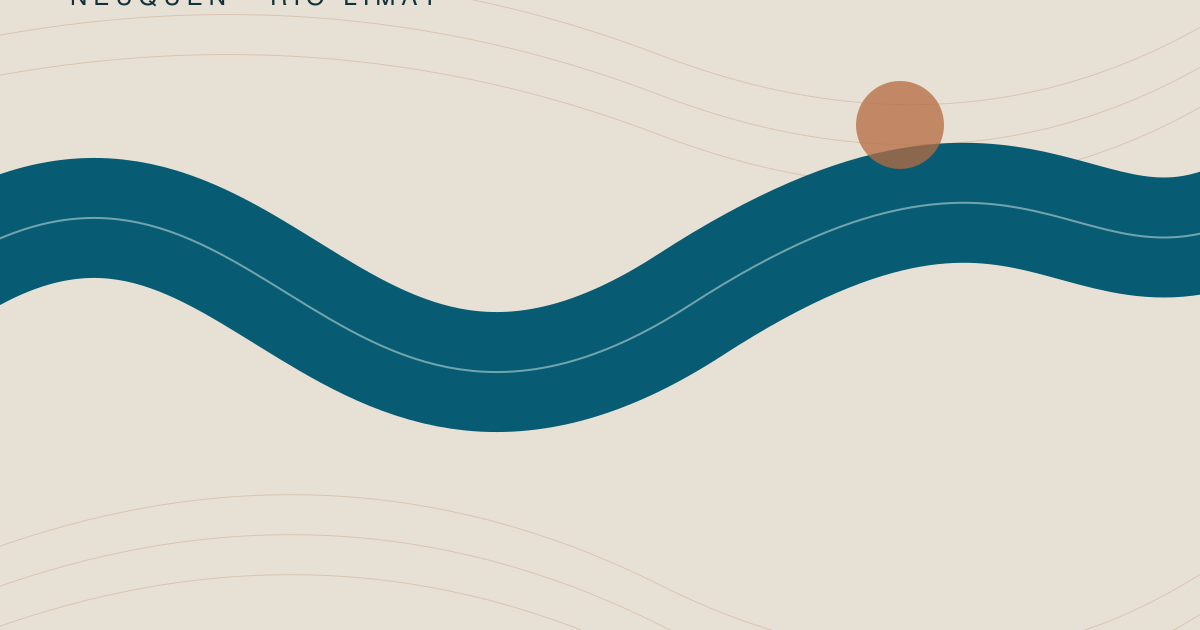
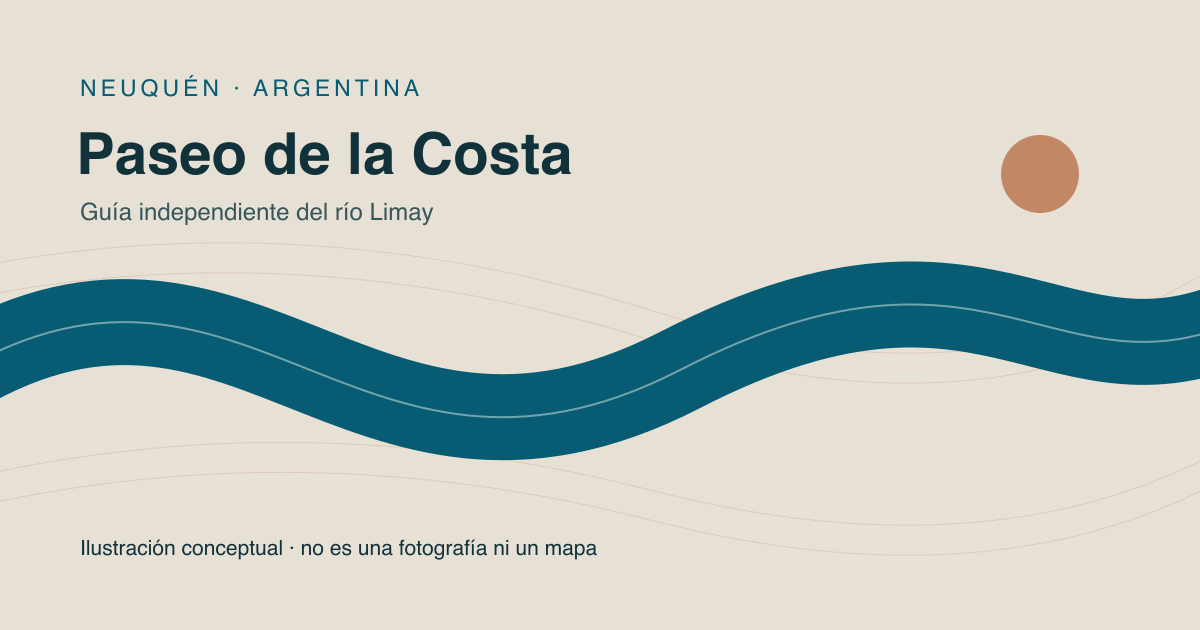
Improve bilingual visitor guide, SEO and existing controls

diff --git a/VISUAL_CREDITS.md b/VISUAL_CREDITS.md
@@ -1,5 +1,5 @@
 # Visual sources
 
-`public/images/river-illustration.svg` is an original conceptual river illustration written as SVG for this guide. `public/images/social.png` is its reproducible PNG rendering. The inline SVG river lines and confluence mark are interface graphics. None represents a geographic map, an observed landscape or current visitor conditions.
+`public/images/river-illustration.svg` is an original conceptual river illustration written as SVG for this guide. `public/images/social.svg` is the dedicated 1200×630 sharing illustration. Its reviewed rendering is committed as `public/images/social.png`; normal builds verify and copy those exact PNG bytes instead of rasterizing system fonts. Explicit re-rendering after a source change requires visual review and updating the hash in `scripts/social.mjs`. The inline SVG river lines and confluence mark are interface graphics. None represents a geographic map, an observed landscape or current visitor conditions.
 
 The previous reference photographs and graphics had no verified per-file licence record and are no longer distributed. A historical Commons replacement was investigated, but its original file could not be obtained reliably; no copy of it is published here.
